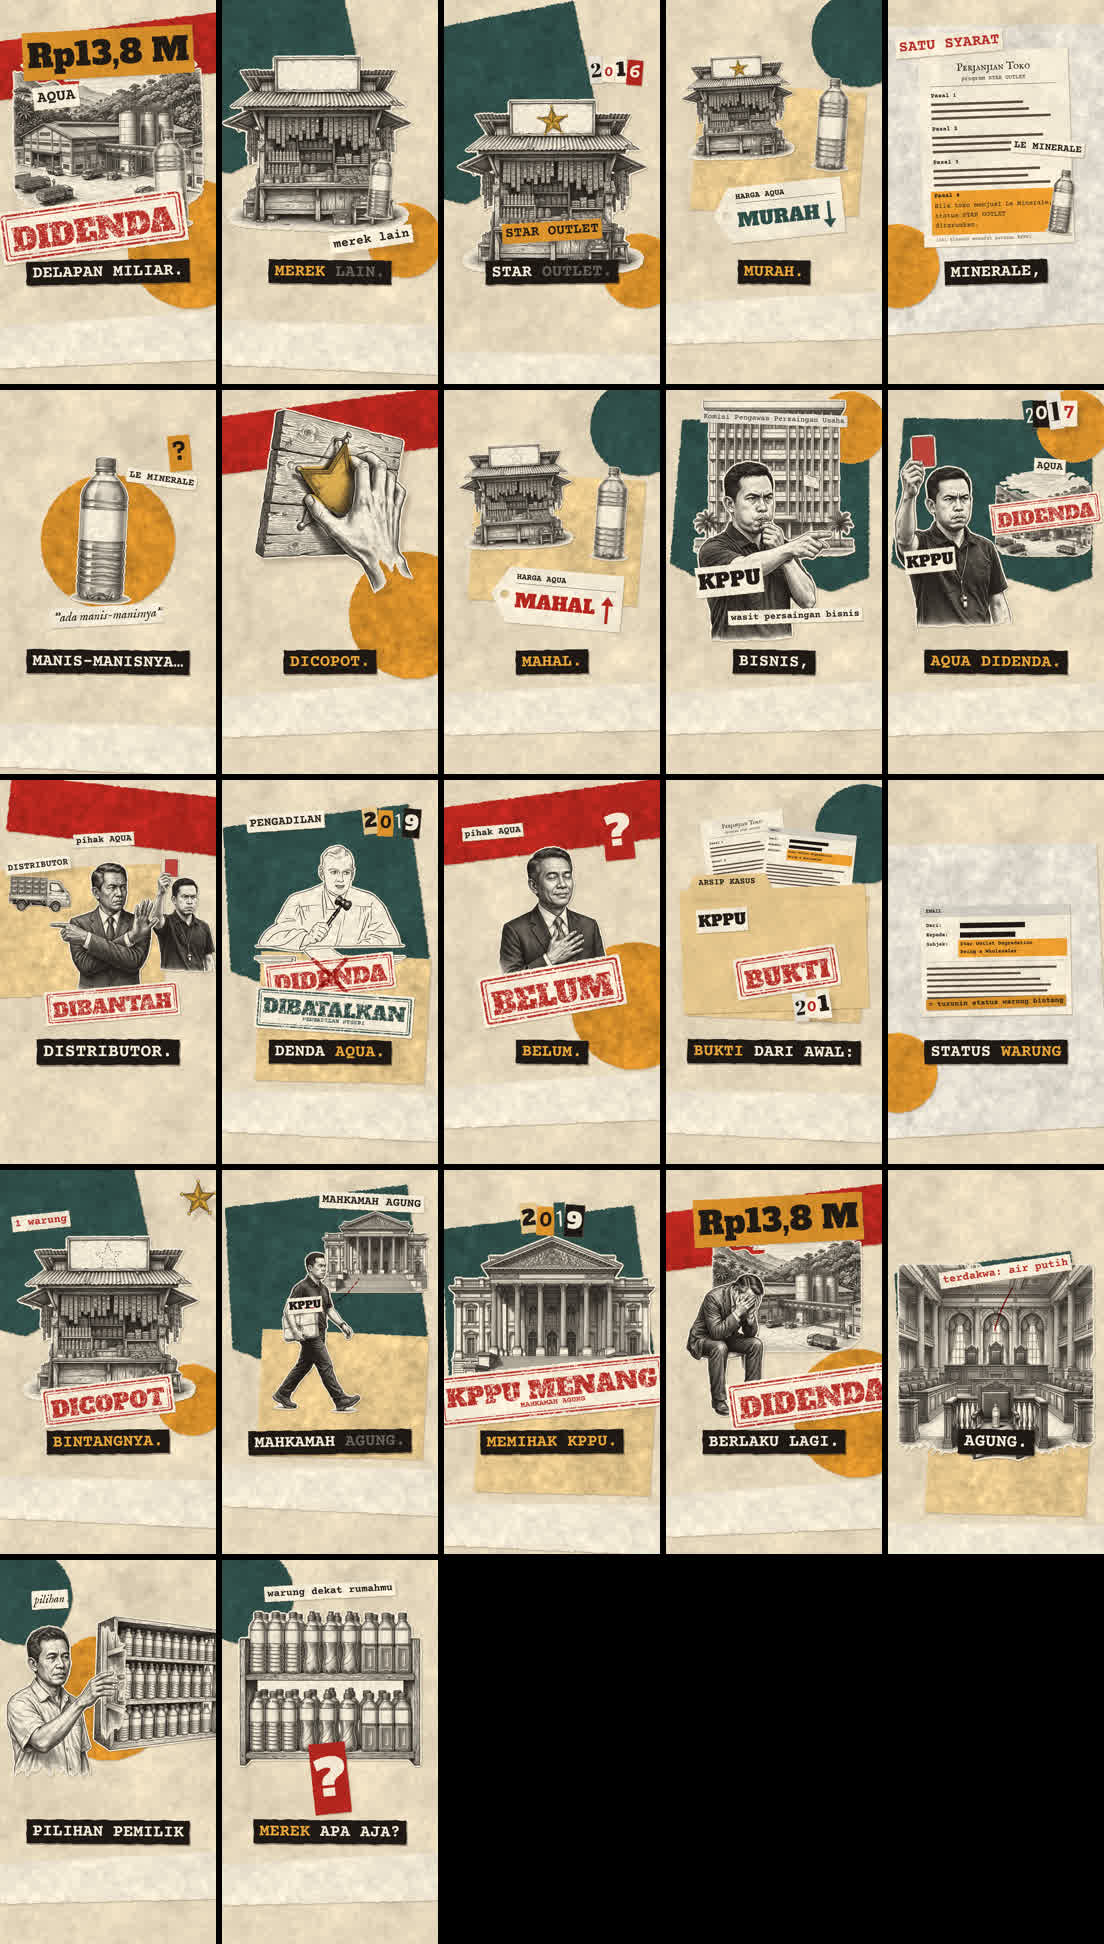
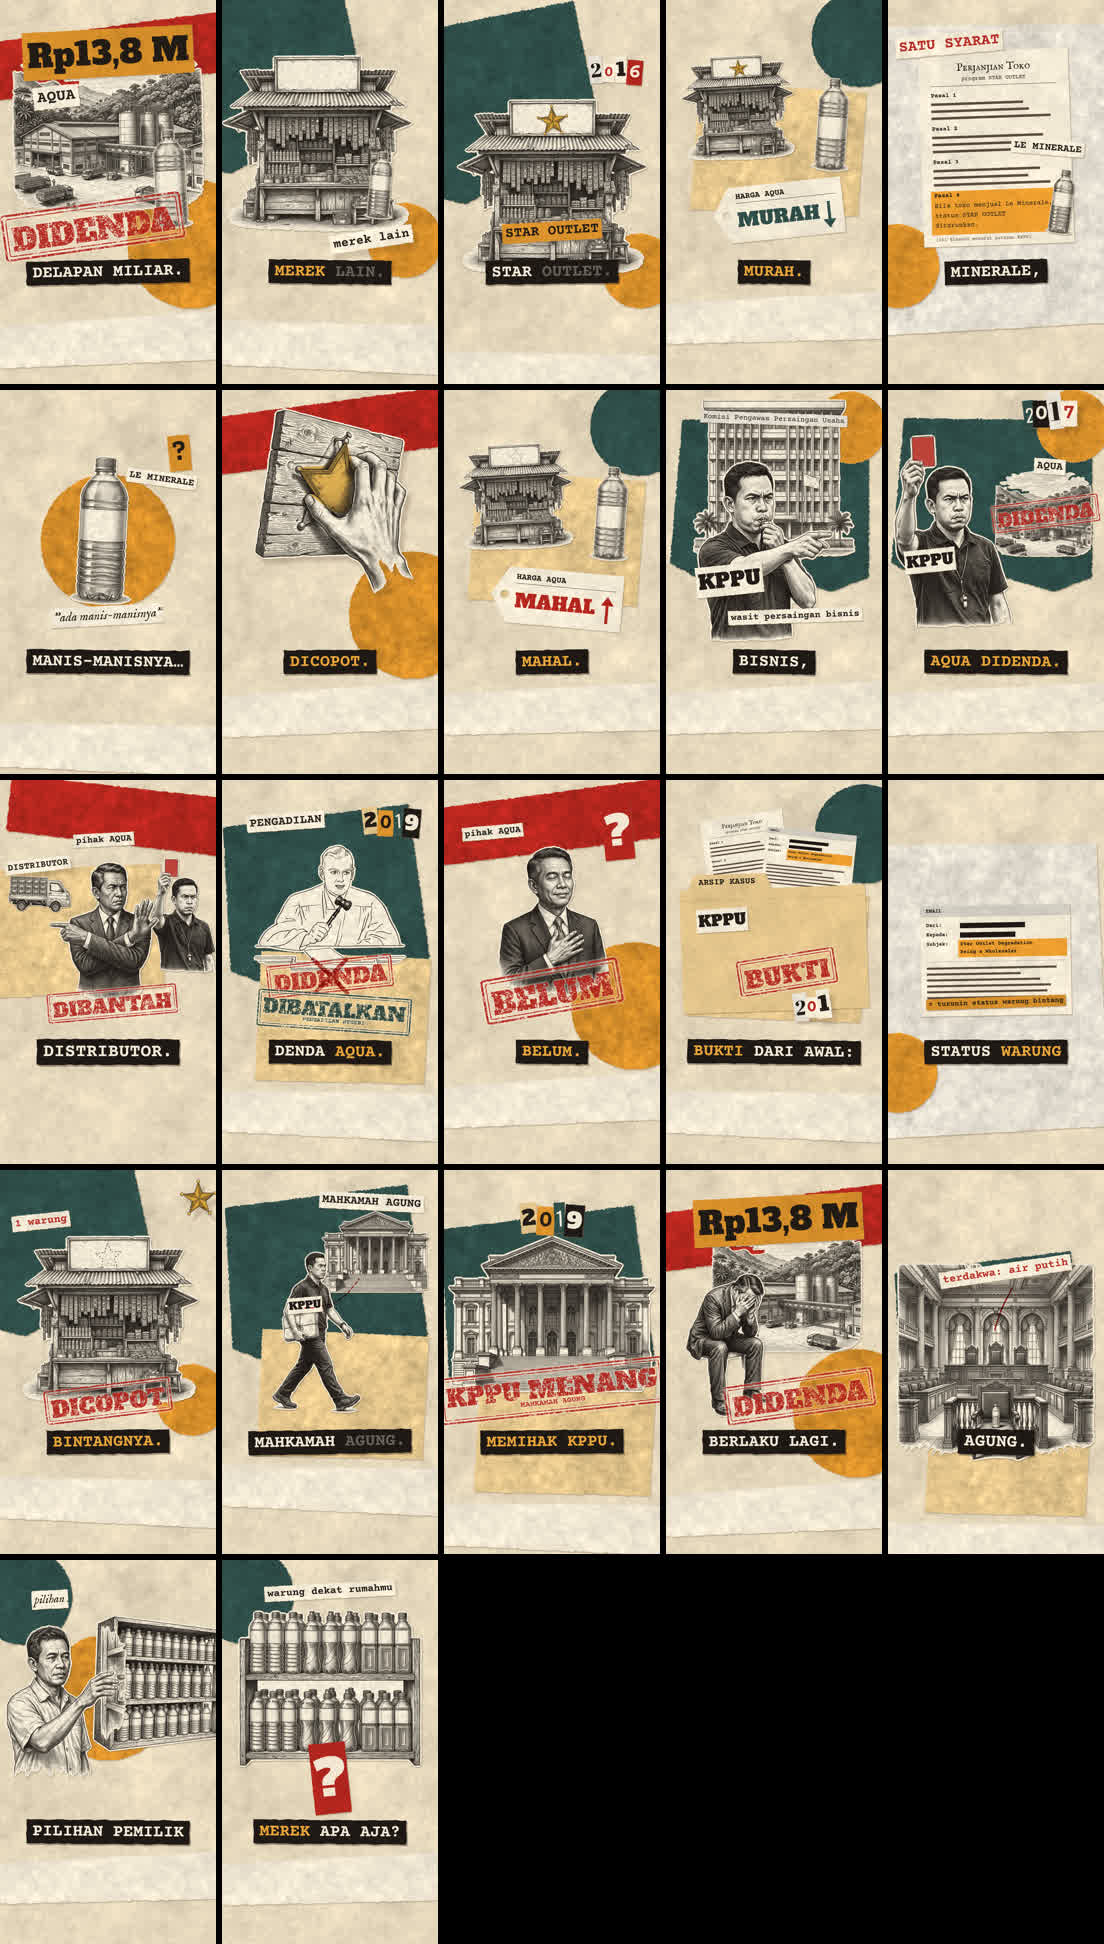
ARSIP #004 aqua: stamps back to transparent ink (dense, opaque draw + paper halo); engine ink over=1
Claude-Session: https://claude.ai/code/session_01BfnoLVZri9uAPP3UdHeCe6

diff --git a/kit/collage/engine.js b/kit/collage/engine.js
@@ -47,7 +47,7 @@ export async function loadAll(partsDir, fontDir) {
   const names = Object.keys(M).filter(k => !k.startsWith('_') && k !== 'paper');
   await Promise.all(names.map(async n => {
     const img = await loadImg(`${partsDir}/${n}.png`);
-    SP[n] = M[n].ink ? { img, k: B, ink: true } : sprite(img, M[n].k || B, true);
+    SP[n] = M[n].ink ? { img, k: B, ink: true, over: !!M[n].over } : sprite(img, M[n].k || B, true);   // over=1: opaque ink (stamps that must read over engravings)
     SP[n].m = M[n];
   }));
   SP.paper = { img: await loadImg(partsDir + '/paper.jpg'), m: M.paper };
@@ -69,7 +69,7 @@ export function drawSprite(S, ax, ay, lx, ly, r, z, sx = 1, s = 1, alpha = 1) {
     place(0.9 + 2.4 * side * Math.sign(sx || 1), 1.2); ctx.globalAlpha = alpha; ctx.drawImage(S.edge, -lx, -ly, w, h); ctx.restore();
   }
   place(0, 0); ctx.globalAlpha = alpha;
-  if (S.ink) ctx.globalCompositeOperation = 'multiply';
+  if (S.ink && !S.over) ctx.globalCompositeOperation = 'multiply';
   ctx.drawImage(sx < 0 && S.back ? S.back : img, -lx, -ly, w, h);
   ctx.restore(); ctx.globalAlpha = 1; ctx.globalCompositeOperation = 'source-over';
 }

diff --git a/stories/aqua/kolase/film.js b/stories/aqua/kolase/film.js
@@ -210,7 +210,7 @@ const SHOTS = [
     stage(u, d, { z0: 1.02, z1: 1.07, cy: 880, shake: [[0.08, 12]] }); bg(SET.hook);
     put('pabrik', 600, 520, 0, 0, 1, 0.78);
     putK('bos_lemas', slide(0, 0.2, 330, 800, 0, 0, -300, 0, 0.6), u, 190, { s: 0.78 });
-    stampAt('st_denda', u, 0.08, 720, 1040, -8, 1.1);
+    stampAt('st_denda', u, 0.08, 660, 1040, -8, 1.0);
     putK('s_138', slap(at(18, 'berlaku'), 560, 215, -3), u, 191);
   },
   // 20 · Air putih doang, sampai Mahkamah Agung.   tight on one small bottle in the defendant's chair, then pull back to the grand courtroom

diff --git a/stories/aqua/kolase/bake.py b/stories/aqua/kolase/bake.py
@@ -168,19 +168,20 @@ def documents():
 def stamps():
     """verdict stamps pressed onto a small cream card, so the red reads over busy engravings (review #004)."""
     def card(name, text, size, color, seed, sub=None):
+        """transparent ink stamp that still reads over busy engravings: denser ink drawn opaque (no multiply), plus a faint
+        paper-coloured halo hugging the letters and frame so the red separates from black lines. No card, no paper edge."""
         bk.stamp(name + '_ink', text, size, color, seed=seed, sub=sub)
         a = np.asarray(Image.open(os.path.join(bk.out, name + '_ink.png')), float)[..., 3] / 255
         os.remove(os.path.join(bk.out, name + '_ink.png')); bk.M.pop(name + '_ink')
-        a = np.clip(a * 1.7, 0, 1)
-        P = int(14 * bk.B); h, w = a.shape
+        a = np.clip(a * 1.6, 0, 1)
+        P = int(10 * bk.B); h, w = a.shape
         A = np.zeros((h + 2 * P, w + 2 * P)); A[P:P + h, P:P + w] = a
-        m = np.zeros(A.shape, bool); m[P // 3:-P // 3, P // 3:-P // 3] = True
-        from collage_lib import torn, paper_texture
-        body, _ = torn(m, rough=1.2 * bk.B, seed=seed, amp=0.4)
-        tex = paper_texture(*A.shape, seed=seed, fibers=200); tex = 1 + (tex - 1) * 0.6
-        col = CARD[None, None, :] * tex[..., None]
-        col = col * (1 - A[..., None]) + color * A[..., None]
-        bk.save(name, col, body)
+        from scipy import ndimage as ndi
+        halo = ndi.gaussian_filter(ndi.binary_dilation(A > 0.25, iterations=int(4 * bk.B)).astype(float), 2.5 * bk.B) * 0.55
+        alpha = np.maximum(A, halo)
+        wink = A / np.maximum(alpha, 1e-6)
+        col = CARD[None, None, :] * (1 - wink[..., None]) + color * wink[..., None]
+        bk.save(name, col, alpha, ink=1, over=1)
     card('st_denda', 'DIDENDA', 120, RED, 81)
     card('st_dibantah', 'DIBANTAH', 104, RED, 82)
     card('st_batal', 'DIBATALKAN', 96, GREEN * 0.85, 83, sub='PENGADILAN NEGERI')

diff --git a/.claude/skills/arsip-kasus/references/7-selera-dan-cara-kerja.md b/.claude/skills/arsip-kasus/references/7-selera-dan-cara-kerja.md
@@ -54,7 +54,7 @@ Dibaca **sebelum** mengirim apa pun ke user (shortlist, script, storyboard, film
 - [ ] Tidak ada watermark; kredit gambar tercatat.
 - [ ] Janji pilar dibayar (satu kalimat alasan asli yang menyentuh pengalaman penonton); jargon dijelaskan; tahun di layar untuk kasus lama; tidak terkesan iklan merek mana pun.
 21. **Merek = perusahaan, bukan cuma produknya** (review storyboard #004): kalau VO bilang "Aqua didenda/membantah/bebas", yang tampil harus perusahaannya (pabrik berlabel tag ketik + orang berjas "pihak X", wajah generik), bukan botol. Lembaga tampil sebagai metafora orang (KPPU = wasit), konsisten satu tokoh dengan baju sama di semua shot.
-22. **Cap/stempel harus terbaca di HP:** tinta tipis di atas gambar gravir tidak terbaca; cap dicetak di kartu krem (`bake.py` stamps → card).
+22. **Cap/stempel harus terbaca di HP tapi tetap tinta transparan** (bukan kartu): tinta pekat digambar opak (`over=1`, tanpa multiply) + pendar kertas tipis di sekeliling huruf (`bake.py` stamps → card()). Kartu krem ditolak user ("harusnya tetap transparan").
 23. **Adegan lucu butuh kontras visual yang jelas** (botol air sendirian di kursi terdakwa ruang sidang megah, zoom dari dekat ke lebar), bukan sekadar benda kecil di depan gedung.
 24. **Review storyboard lewat halaman artifact yang bisa dikomentari** (bukan gambar grid): user menaruh komentar per shot tanpa "Send to Claude", lalu bilang "cek komentar" di chat; Claude membaca semua dengan `ArtifactComments read`, menjawab di chat, dan menulis jawaban per shot sebagai kotak "Revisi vN" di halaman.
 25. **Cap menempel pada pihak yang dikenai, jauh dari label pihak lain** (review S10 #004): label KPPU di sebelah cap DIDENDA terbaca "KPPU didenda". Cap hukuman ditempel langsung di benda/tokoh yang dihukum, di bawah labelnya sendiri.
